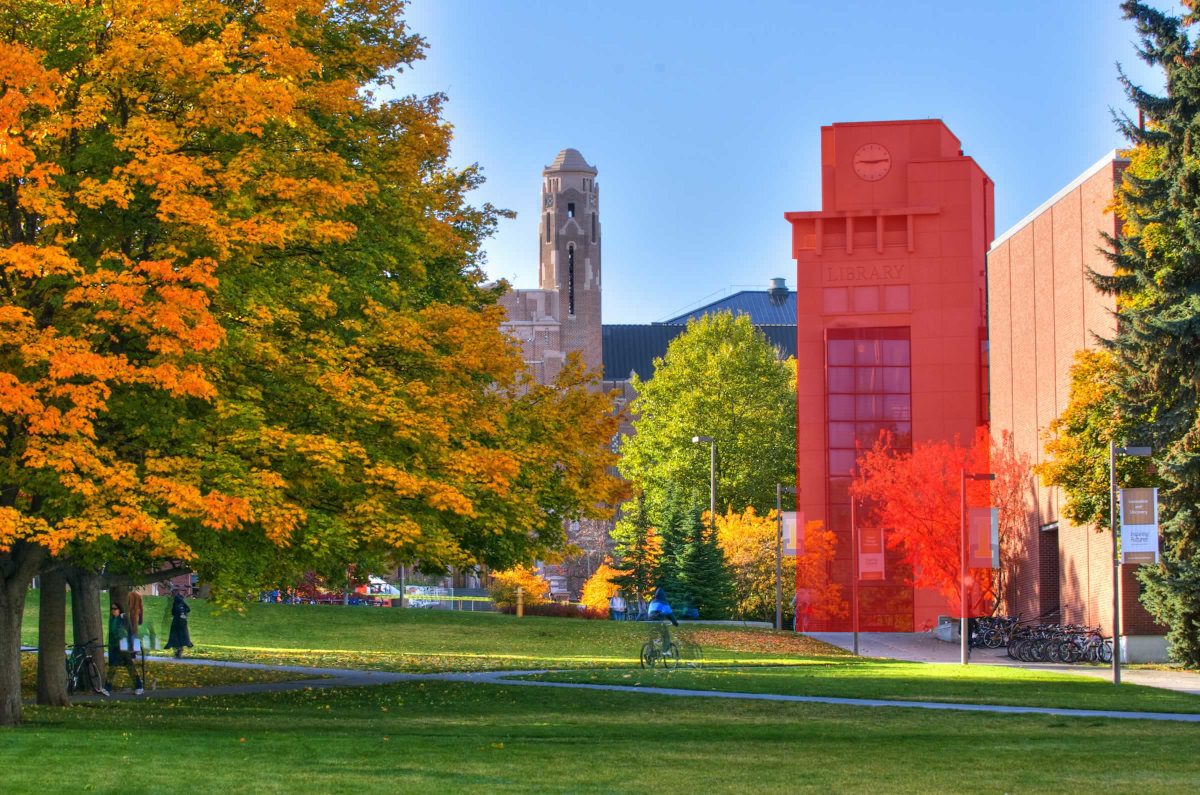
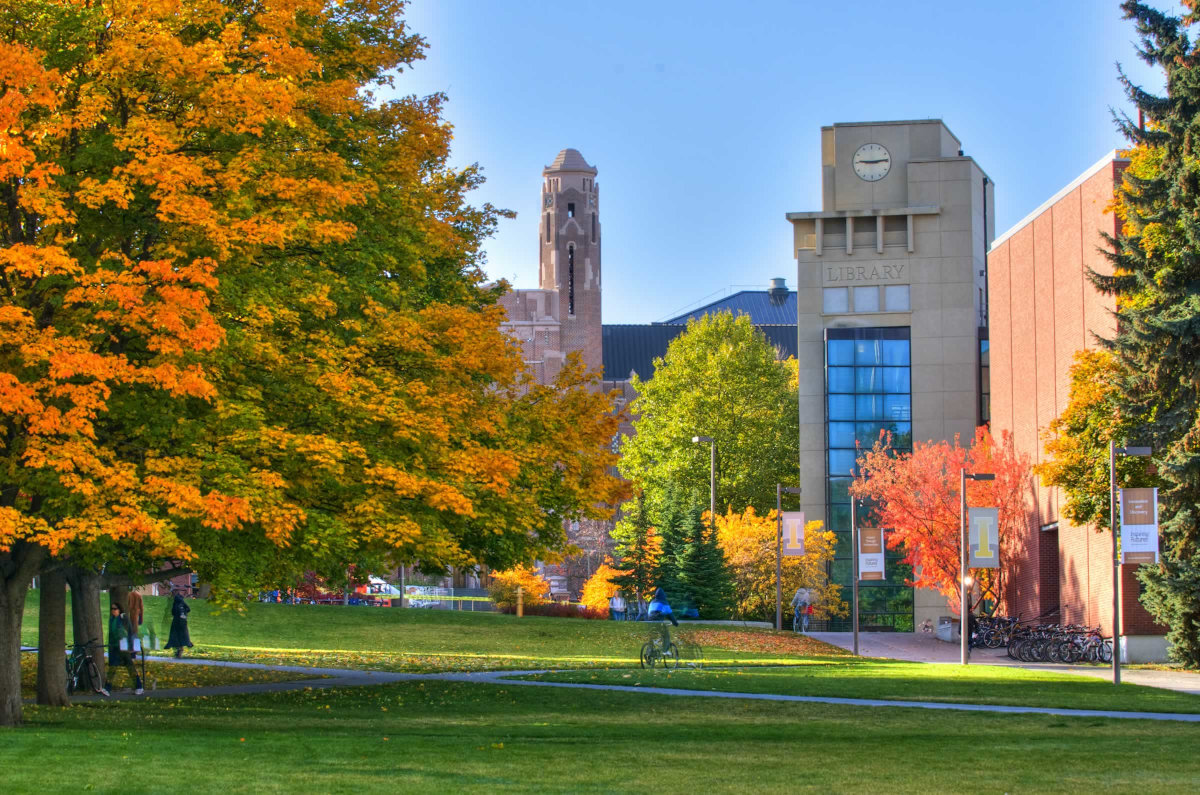
revise

Changed region(s): [[0.6475, 0.1509, 0.8325, 0.8151]]

diff --git a/content/1_intro.md b/content/1_intro.md
@@ -10,7 +10,7 @@ gallery: true
 
 <br>
 
-{% include gallery-figure.html img="cals_15.jpg" alt="The library tower seen in autumn, highlighted in red" caption="The Library tower, highlighted in red" %}
+{% include gallery-figure.html img="cals_15.jpg" alt="The library tower in autumn" caption="The Library Tower in autumn" %}
 
 **To begin,**
 
@@ -42,7 +42,7 @@ The library can be a complicated and overwhelming place, please don’t be hesit
   </tr>
   <tr>
     <td style="border: 2px solid black; padding: 15px; vertical-align: top;">Ask anytime on our <a href="https://www.lib.uidaho.edu/help/chat.html">24/7 Chat Reference</a>.</td>
-    <td style="border: 2px solid black; padding: 15px; vertical-align: top;">Explore our<a href="https://www.lib.uidaho.edu/">website</a>.</td>
+    <td style="border: 2px solid black; padding: 15px; vertical-align: top;">Explore our <a href="https://www.lib.uidaho.edu/">website</a>.</td>
   </tr>
   <tr>
     <td style="border: 2px solid black; padding: 15px; vertical-align: top;"><a href="https://www.lib.uidaho.edu/services/rooms.html">Book a room</a> for your group meeting.</td>
